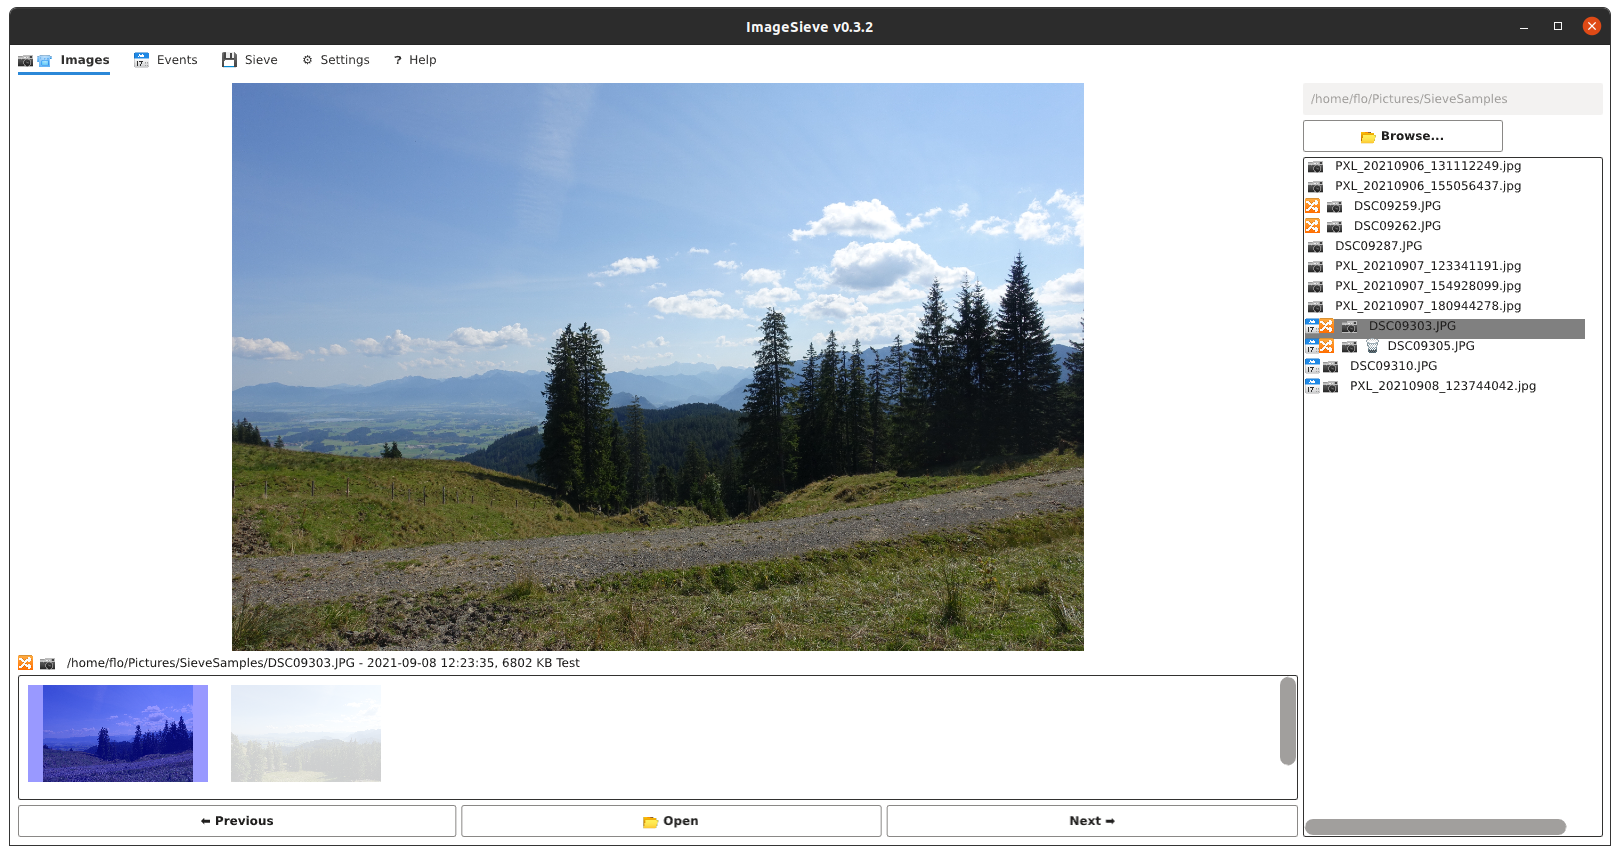
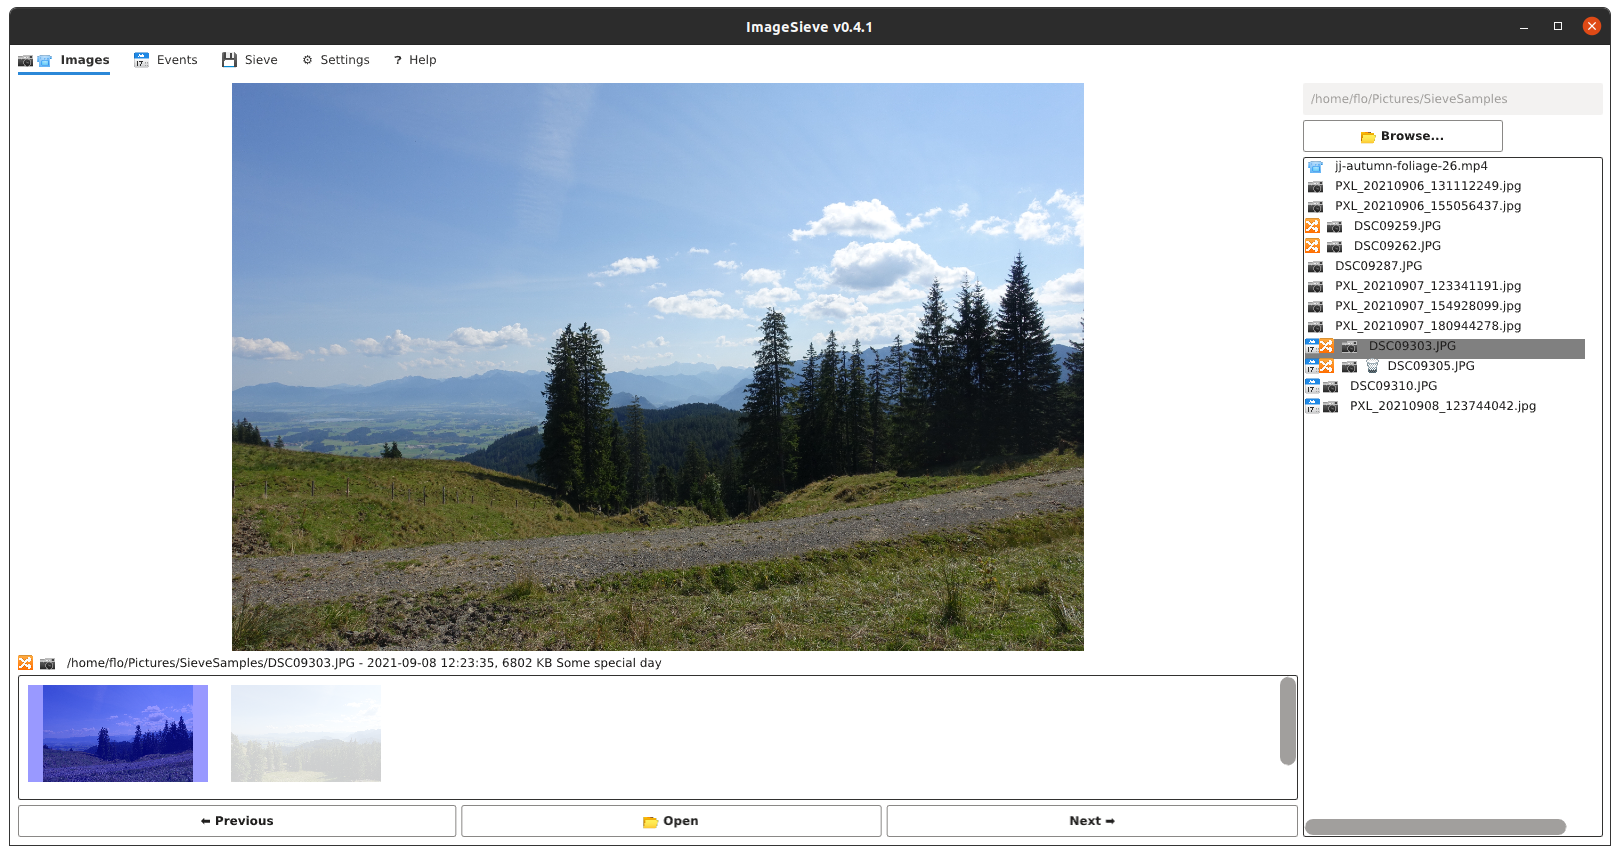
Modification and update of screenshots

Changed region(s): [[0.8025, 0.1825, 0.9877, 0.4865], [0.3395, 0.7602, 0.4012, 0.7906]]

diff --git a/README.md b/README.md
@@ -44,12 +44,14 @@ To select a file, click it and it will be shown in the image area. Below the ima
 If you want to open an image or a video with the default application in your OS, click the "Open" button.
 If an image belongs to a group of similar images, all these similar images are displayed below the current image. The currently selected one is highlighted in blue.
 Note that video files are also displayed in the list of images and previewed as a 3x3 matrix of screenshots. Similiarities are not calculated for video files.
+![Screenshot](doc/screenshot2.png?raw=true "ImageSieve")
 
 ### &#x1F4C5; Events
 Per default, the images will be sorted in folders corresponding to the months they were taken, like "09-2021", "10-2021" etc. To be able to find images more quickly in an archive, ImageSieve supports grouping pictures with the help of events in the "Events" tab. Events are named date spans that will provide a target folder name during the sieve process, like "2021-10-07 - 2021-10-10 Cool trip". All images taken in the given period of time will be put into that folder. You can specify an arbitrary number of events, but be aware that in case of overlapping dates, an image is put into the folder of the first matching event.
 To add an event, fill the start date, end date and name text box and click the "&#x2795; Add" button. Valid date formats are YYYY-MM-DD or DD.MM.YYYY. You can edit existing events by modifying their fields and pressing enter - the updated values will be visible in the event's caption. To remove an event, click the "&#x1F5D1; Remove" button.
 The time spans of events must not overlap.
 Be aware that the events are saved in the currently selected folder along with the selection of images.
+![Screenshot](doc/screenshot3.png?raw=true "ImageSieve")
 
 ### &#x1F4BE; Sieve
 When you are done sorting the images, the sieving process can be started. Go to the "&#x1F4BE;  Sieve" tab and select a sieving mode. The following modes are supported:
@@ -59,6 +61,7 @@ When you are done sorting the images, the sieving process can be started. Go to 
 - Delete in source directory: Deletes all discarded items in the source directory.
 
 Depending on the mode, you need to indicate a target directory that is used for the result of the sieving process. Once you are done, click the start button and the sieve process will start.
+![Screenshot](doc/screenshot4.png?raw=true "ImageSieve")
 
 ### &#x2699; Settings
 In the settings tab, you can specify the behavior of the similarity detection process. You can turn on and off both the use of the file/capture
